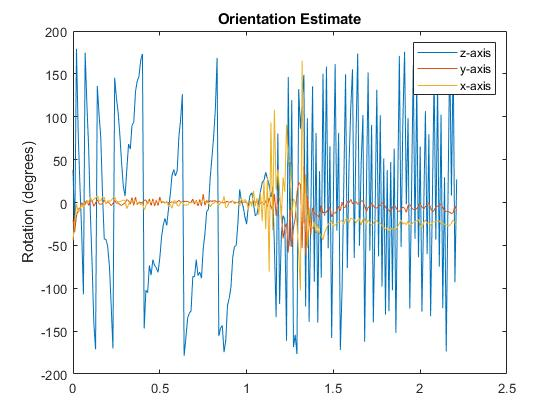
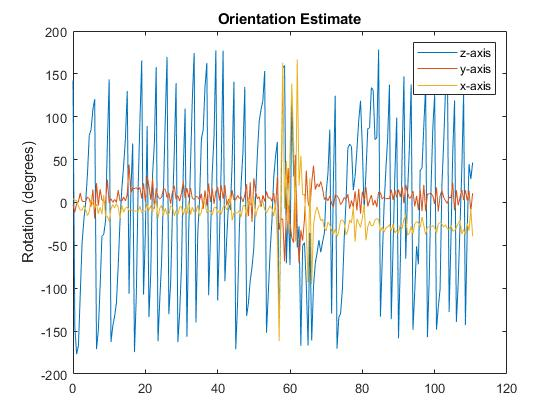
Added comment blocks to MATLAB code

diff --git a/MATLAB/testSensorFusion.m b/MATLAB/testSensorFusion.m
@@ -1,19 +1,33 @@
-data = fopen('SlowPickup1.txt','r');
+% Date: February 3, 2019
+% Authors: MATLAB
+% Modified By: Riley Voon
+% Description: This code does some basic simulations on sample IMU data and
+% graphs the orientation along 3 axises as the IMU is lifted from a
+% surface.
+
+data = fopen('FastPickup1.txt','r'); %get the IMU data
+
+% Convert the data from the file into a matrix.
 formatSpec = '%d %f';
 sizeA = [12 Inf];
 A = fscanf(data,formatSpec,sizeA)
 A = A'
 disp(A);
+
+% Get the acclerometer, gyroscope, and magnetometer readings from the
+% matrix.
 accelerometerReadings = A(:,5:7);
 gyroscopeReadings = A(:,2:4);
 magnetometerReadings = A(:,8:10);
 disp(accelerometerReadings);
 
+% Create the ahrsfilter object and fuse it with each reading from the IMU.
 decim = 2;
 fuse = ahrsfilter('SampleRate',data,'DecimationFactor',decim);
 q = fuse(accelerometerReadings,gyroscopeReadings,magnetometerReadings);
 
-time = (0:decim:size(accelerometerReadings,1)-1)/Fs;
+% Plot the changes in orientation.
+time = (0:decim:size(accelerometerReadings,1)-1)/data;
 
 plot(time,eulerd(q,'ZYX','frame'))
 title('Orientation Estimate')
